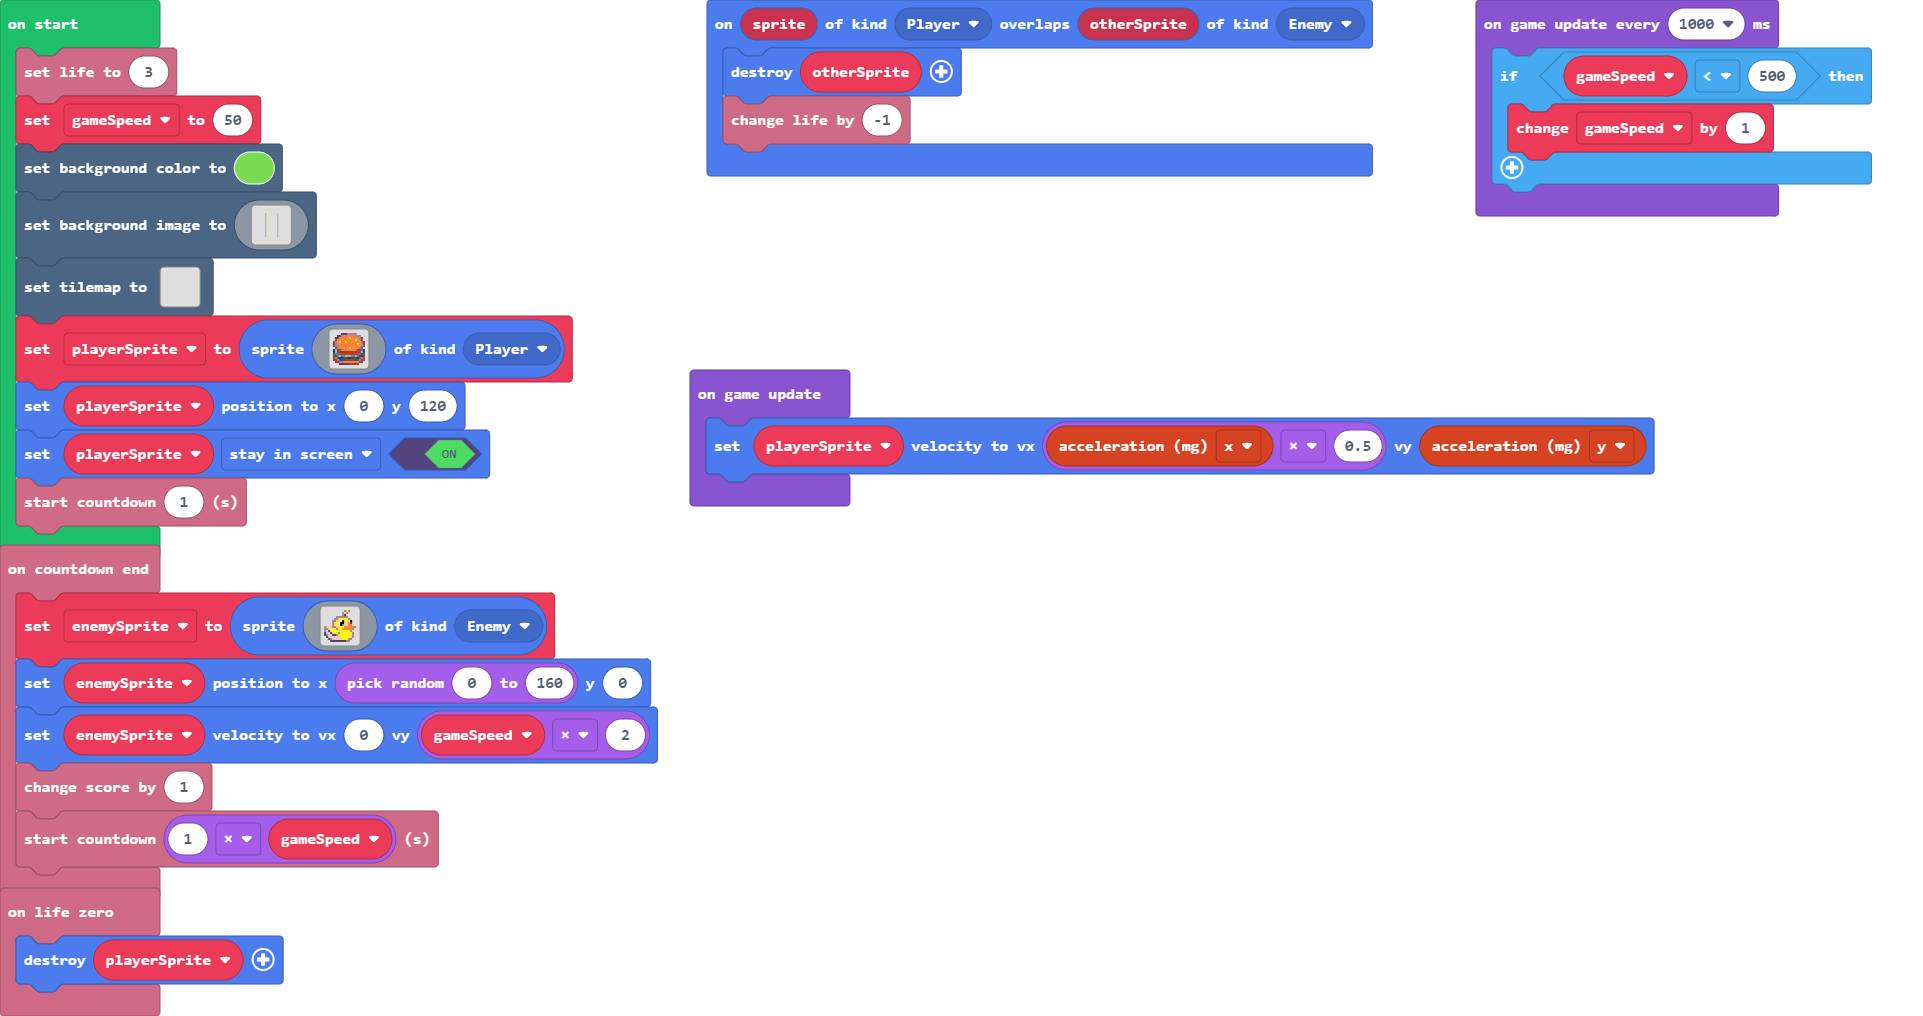
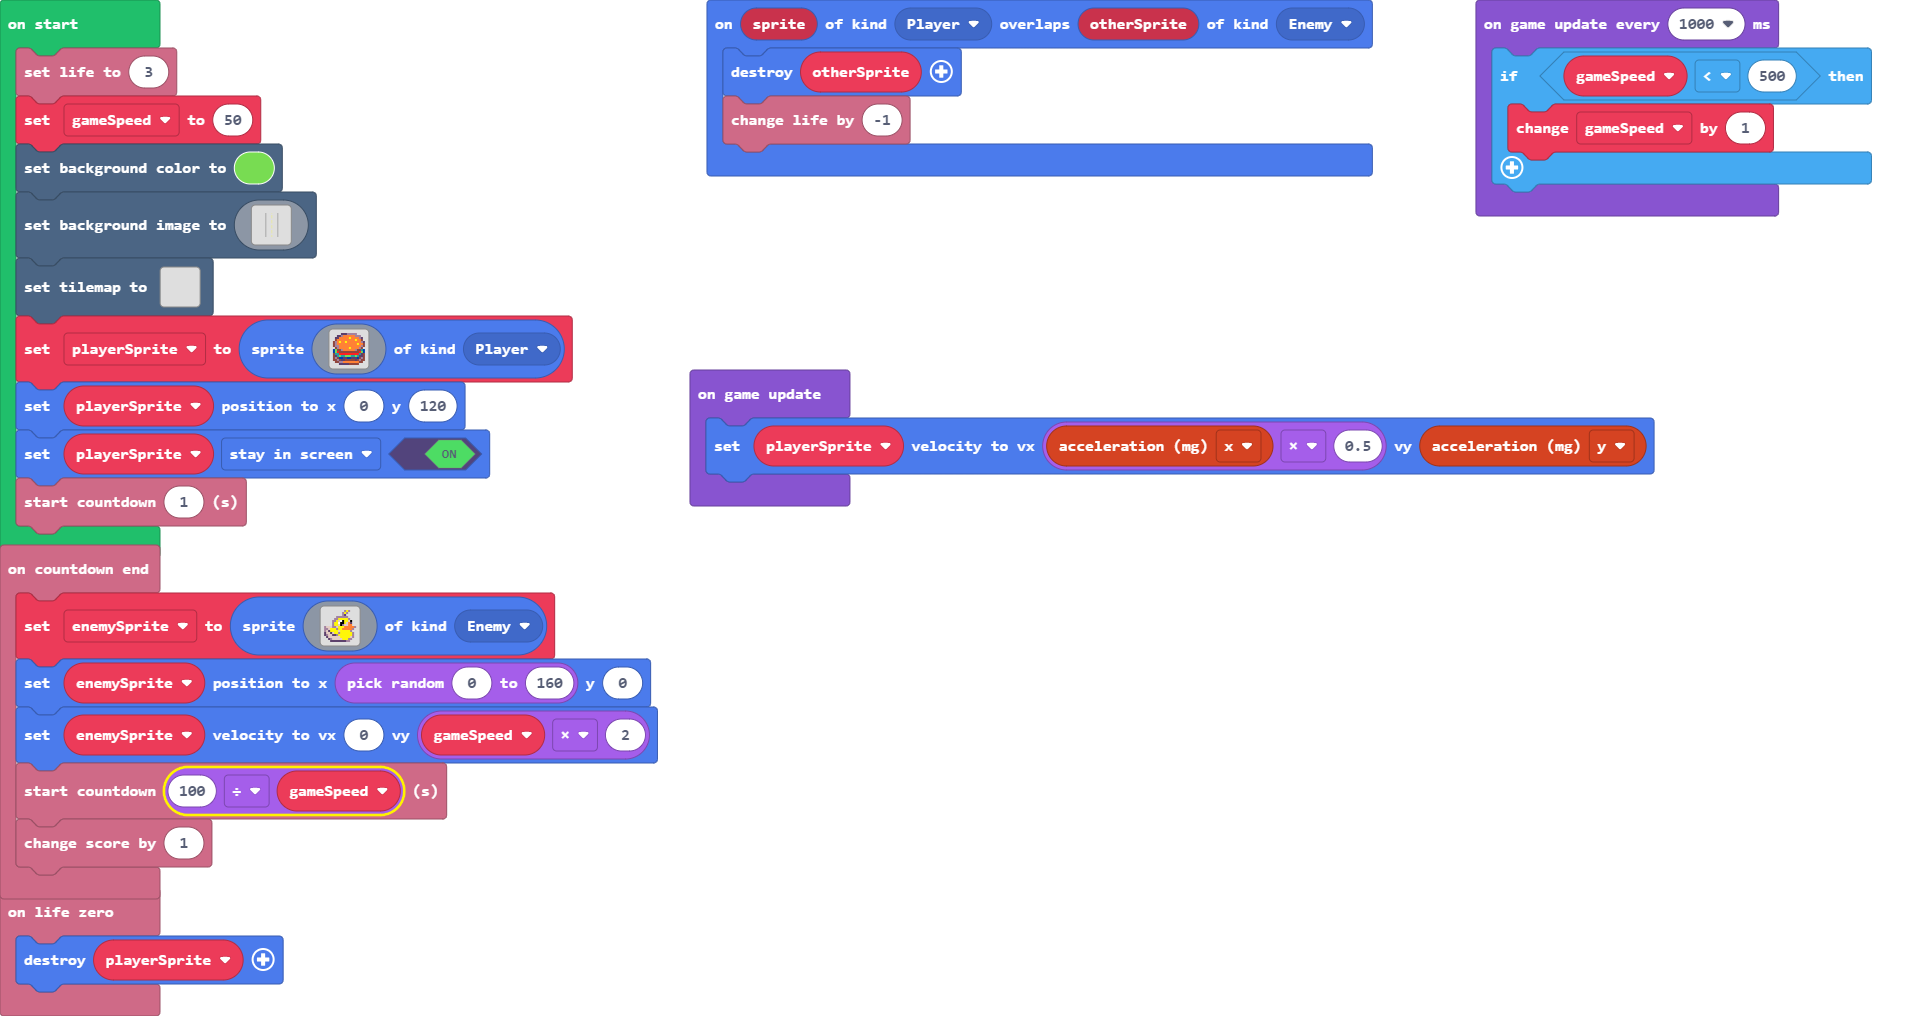
Update main.blocks, main.ts

Changed region(s): [[0.0, 0.7323, 0.2496, 0.8543]]

diff --git a/main.ts b/main.ts
@@ -19,8 +19,8 @@ info.onCountdownEnd(function () {
         `, SpriteKind.Enemy)
     enemySprite.setPosition(randint(0, 160), 0)
     enemySprite.setVelocity(0, gameSpeed * 2)
+    info.startCountdown(100 / gameSpeed)
     info.changeScoreBy(1)
-    info.startCountdown(1 * gameSpeed)
 })
 info.onLifeZero(function () {
     playerSprite.destroy()
